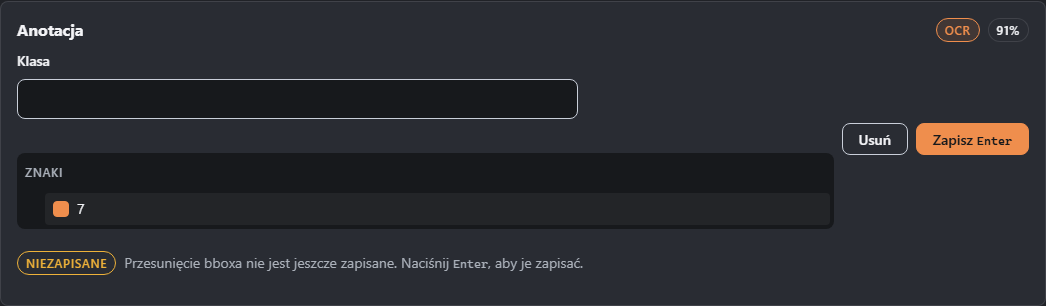
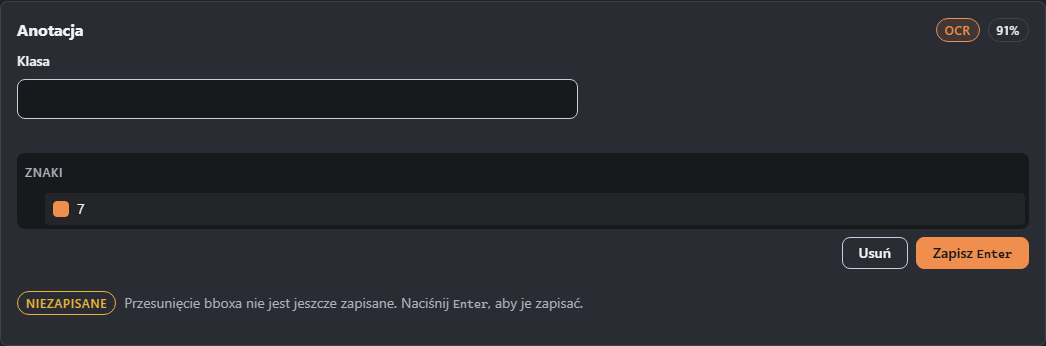
docs(fe-013): record FIX2 measurements and gate result

diff --git a/docs/tickets/FE-013/log.md b/docs/tickets/FE-013/log.md
@@ -339,3 +339,52 @@ Moduły/ID UI/UX:
 - Retest nawigacji `GroupedOptionList`, pustego/białego Enter, obu przepływów,
   geometrii FE-012, Space FE-010, współbieżności i `IntegrityError`.
 - Finalnie jeden `scripts/check.ps1`: 9/9 PASS, zero SKIP.
+
+### Wynik FIX2
+
+**FIX-A — pomiary.** `frontend/e2e/fe013-conflict-geometry.spec.ts`, Chromium
+1440×1000, oba warianty `ſ/S` i `ﬀ/ff` dały identyczną geometrię:
+
+| Prostokąt | left | right | top | bottom |
+| --- | --- | --- | --- | --- |
+| dialog | 337 | 1383 | 321,70 | 674,70 |
+| „Zapisz” | 1252,83 | 1366 | 625,70 | 657,70 |
+
+Przycisk mieści się w panelu w obu osiach, `document.elementFromPoint` na jego
+środku trafia w element wewnątrz `[aria-label="Zapisz klasę"]`, a zwykły klik
+myszą wysyła dokładnie jeden `PATCH /annotations/ann-1` z
+`{category_id: <zwycięzca>, expected_version: 3}`.
+
+Test faktycznie łapie usterkę: po tymczasowym przywróceniu reguły
+`grid-template-columns: minmax(0, 1fr) auto` pomiar odtworzył liczbę z
+re-review — `save.left = 320` przy `panel.left = 337`, czyli 17 px poza lewą
+krawędzią. Poza bieżącym komunikatem test mierzy też alert zastąpiony tekstem
+1800 znaków oraz jednym nierozdzielnym tokenem 400 znaków; w obu przypadkach
+prostokąt przycisku się nie zmienia.
+
+**FIX-B — co widzi operator bez `details`.** Profil ma `ſ`, operator wpisuje
+`s`, akcja proponuje `S`, backend odrzuca `409 category_name_exists` bez
+szczegółów, a przeglądarka nie potrafi odtworzyć `casefold`:
+
+1. alert: „Klasa o tej nazwie już istnieje w profilu. Lista została odświeżona.
+   Wskaż istniejącą klasę na liście i zapisz przypisanie albo podaj inną nazwę.
+   Kod: category_name_exists.” — żadnego zdania o dokonanym wyborze;
+2. filtr pusty, więc odświeżona lista pokazuje wszystkie klasy profilu wraz
+   z `ſ`, niewidocznym pod zapytaniem `s`;
+3. żaden wiersz nie ma `aria-selected="true"`;
+4. „Zapisz” jest `disabled` do czasu ręcznego wskazania klasy;
+5. akcji „Utwórz i przypisz klasę” nie ma, więc nie da się wejść w pętlę
+   kolejnych `409`; wraca dopiero po zmianie treści filtra, czyli po nowej
+   intencji operatora;
+6. po kliknięciu `ſ` i „Zapisz” idzie zwykły wersjonowany `PATCH`
+   (`expected_version: 3`).
+
+Ścieżka bez `details` z dokładną nazwą (`Score` utworzone równolegle) nadal
+odzyskuje zwycięzcę z odświeżonego profilu i zaznacza go automatycznie.
+
+**Bramka.** Jeden nieprzerwany `scripts/check.ps1`: **9/9 PASS, zero SKIP** —
+backend format, lint, mypy (99 plików), 356 testów; frontend typy, 649 testów
+w 41 plikach, build; E2E 18 passed (15 dotychczasowych plus trzy nowe), E2E
+root safety 2/2. Oficjalny E2E odświeżył pięć zrzutów zawierających panel
+anotacji — jednokolumnowy układ jest w nich widoczny i zostały zacommitowane
+razem z tym wpisem.
